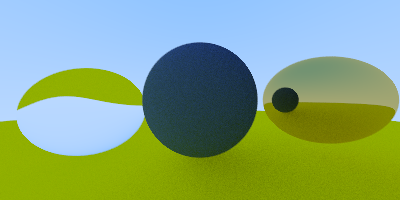
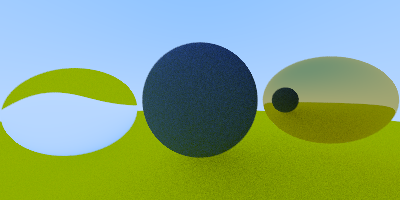
start parallelize render

diff --git a/src/main.rs b/src/main.rs
@@ -5,23 +5,24 @@
 use glam::Vec3;
 use image::{ImageBuffer, Rgb};
 use rand::Rng;
+use rayon::prelude::*;
 use rt_in_1_weekend::{
     color,
     materials::{Lambertian, Reflective, Refractive},
+    parallel::{RNG, WIDTH, WORLD},
     scene::{Camera, Sphere},
     utils, Surface,
 };
-use std::path::Path;
+use std::{cell::Cell, path::Path};
 
-const DIM: u32 = 200;
-const DEPTH: i32 = 10;
+const DEPTH: i32 = 3;
 
 fn world<'a>() -> Vec<Box<dyn Surface>> {
     let mut world: Vec<Box<dyn Surface>> = vec![];
 
     let diffuse1 = Box::new(Lambertian::new(Vec3::new(0.1, 0.2, 0.5)));
     let diffuse2 = Box::new(Lambertian::new(Vec3::new(0.8, 0.8, 0.0)));
-    let reflective1 = Box::new(Reflective::new(Vec3::new(0.8, 0.6, 0.2)));
+    let reflective = Box::new(Reflective::new(Vec3::new(0.8, 0.6, 0.2)));
     let refractive = Box::new(Refractive::new(1.5));
     world.push(Box::new(Sphere::new(
         Vec3::new(0.0, 0.0, -1.0),
@@ -38,12 +39,13 @@ fn world<'a>() -> Vec<Box<dyn Surface>> {
     world.push(Box::new(Sphere::new(
         Vec3::new(-1.1, -0.1, -1.0),
         0.4,
+        // reflective.clone(),
         refractive,
     )));
     world.push(Box::new(Sphere::new(
         Vec3::new(1.1, 0.0, -1.0),
         0.4,
-        reflective1,
+        reflective,
     )));
 
     world
@@ -52,35 +54,36 @@ fn world<'a>() -> Vec<Box<dyn Surface>> {
 fn main() {
     let t = utils::Timer::new();
     // ns is just step count for antialiasing
-    let (w, h, ns) = (DIM as f32 * 2.0, DIM as f32, 100);
-    let mut buf = ImageBuffer::new(w as u32, h as u32);
+    let (w, h, ns) = (WIDTH, HEIGHT, ANTIALIASING);
+    let mut image = Image::new(w as u32, h as u32);
 
-    let world: Vec<Box<dyn Surface>> = world();
+    // let world: Vec<Box<dyn Surface>> = world();
+    WORLD.set(world());
     let camera = Camera::default();
 
-    for (x, y, pixel) in buf.enumerate_pixels_mut() {
-        let mut col = Vec3::ZERO;
-        let (x, y) = (x as f32, y as f32);
+    let mut rng = rand::thread_rng();
+    // for (x, y, pixel) in buf.enumerate_pixels_mut() {
+    //     let mut col = Vec3::ZERO;
+    //     let (x, y) = (x as f32, y as f32);
 
-        for _ in 0..ns {
-            let mut rng = rand::thread_rng();
-            let rand = rng.gen_range(0.0..1.0);
+    //     for _ in 0..ns {
+    //         let rand = rng.gen_range(0.0..1.0);
 
-            // This two are pixel's relative coordinates on the screen
-            let (u, v) = (((x + rand) / w), ((y + rand) / h));
-            let ray = camera.get_ray(u, v);
-            // let p = ray.point_at(2.0);
-            col += color(&ray, &world, DEPTH);
-        }
+    //         // This two are pixel's relative coordinates on the screen
+    //         let (u, v) = (((x + rand) / w), ((y + rand) / h));
+    //         let ray = camera.get_ray(u, v);
+    //         // let p = ray.point_at(2.0);
+    //         col += color(&ray, &world, DEPTH);
+    //     }
 
-        col /= ns as f32;
-        col = Vec3::new(col.x.sqrt(), col.y.sqrt(), col.z.sqrt());
-        *pixel = Rgb([
-            (col[0] * 255.99) as u8,
-            (col[1] * 255.99) as u8,
-            (col[2] * 255.99) as u8,
-        ]);
-    }
+    //     col /= ns as f32;
+    //     col = Vec3::new(col.x.sqrt(), col.y.sqrt(), col.z.sqrt());
+    //     *pixel = Rgb([
+    //         (col[0] * 255.99) as u8,
+    //         (col[1] * 255.99) as u8,
+    //         (col[2] * 255.99) as u8,
+    //     ]);
+    // }
 
     utils::save_image(buf, &Path::new("output/scene.png"));
     t.end();

diff --git a/src/lib.rs b/src/lib.rs
@@ -1,13 +1,21 @@
 pub mod materials;
+pub mod parallel;
 pub mod scene;
 pub mod utils;
 
 use glam::Vec3;
+use image::Rgb;
+use rand::Rng;
+
 use materials::Material;
+use parallel::{HEIGHT, RNG, WIDTH};
+use scene::Camera;
+
+const ANTIALIASING: i32 = 50;
 
 /// For ray calculate color in the given world - list of objects with coordinates
 pub fn color(ray: &Ray, world: &Vec<Box<dyn Surface>>, depth: i32) -> Vec3 {
-    if let Some(hit) = world.hit(ray, 0.0001, f32::MAX) {
+    if let Some(hit) = world.hit(ray, 0.001, f32::MAX) {
         if let Some((attenuation, scattered)) = hit.material.scatter(ray, &hit) {
             let col: Vec3 = color(&scattered, world, depth + 1);
             return attenuation * col;
@@ -17,6 +25,42 @@ pub fn color(ray: &Ray, world: &Vec<Box<dyn Surface>>, depth: i32) -> Vec3 {
     let norm = ray.direction().unit_vec();
     let t = 0.5 * norm.y + 1.0;
     (1.0 - t) * Vec3::ONE + t * Vec3::new(0.5, 0.7, 1.0)
+}
+
+pub fn pixel_color(x: f32, y: f32, camera: &Camera, world: &Vec<dyn Surface>) -> Rgb<u8> {
+    for _ in 0..ANTIALIASING {
+        let rand = RNG.get_mut().gen_range(0.0..1.0);
+
+        // This two are pixel's relative coordinates on the screen
+        let (u, v) = (((x + rand) / WIDTH), ((y + rand) / HEIGHT));
+        let ray = camera.get_ray(u, v);
+        // let p = ray.point_at(2.0);
+        col += color(&ray, &world, DEPTH);
+    }
+
+    col /= ns as f32;
+    col = Vec3::new(col.x.sqrt(), col.y.sqrt(), col.z.sqrt());
+    Rgb([
+        (col[0] * 255.99) as u8,
+        (col[1] * 255.99) as u8,
+        (col[2] * 255.99) as u8,
+    ])
+}
+
+pub fn set_pixel(x: f32, y: f32, pixel: &mut Rgb<u8>) {
+    let mut col = Vec3::ZERO;
+    let pool = rayon::ThreadPoolBuilder::new().build().unwrap();
+    // let chunks =
+    let mut v1 = RawImageView::new(&mut buf, 0, 0, 10, 10);
+    let mut v2 = RawImageView::new(&mut buf, 10, 0, 10, 10);
+    pool.scope(|s| {
+        s.spawn(|_| {
+            modify(&mut v1);
+        });
+        s.spawn(|_| {
+            modify(&mut v2);
+        });
+    });
 }
 
 pub trait Vec3Ext<T> {

diff --git a/src/utils.rs b/src/utils.rs
@@ -54,11 +54,8 @@ impl Image {
         &mut self.0
     }
 
-    pub fn assign_pixel(&mut self, x: i32, y: i32, intensity: f32) {
+    pub fn assign_pixel(&mut self, x: i32, y: i32, value: Rgb<u8>) {
         let pixel = self.buf_mut().get_pixel_mut(x as u32, y as u32);
-        // Reverse to make black default value
-        // TODO: support different colors
-        let value = (255.0 - intensity * 255.0) as u8;
-        *pixel = Rgb([value; 3]);
+        *pixel = value;
     }
 }

diff --git a/src/parallel.rs b/src/parallel.rs
@@ -1,0 +1,12 @@
+use crate::{scene::Scene, Surface};
+use lazy_static::lazy_static;
+use rand::{rngs::ThreadRng, thread_rng};
+use rayon::prelude::*;
+use std::cell::Cell;
+
+pub const DIM: f32 = 200.0;
+
+pub const WORLD: Cell<Vec<Box<dyn Surface>>> = Cell::new(vec![]);
+pub const RNG: Cell<ThreadRng> = Cell::new(thread_rng());
+pub const HEIGHT: f32 = DIM;
+pub const WIDTH: f32 = DIM * 2.0;

diff --git a/src/scene.rs b/src/scene.rs
@@ -1,6 +1,13 @@
 use crate::{materials::Material, Hit, Ray, Surface};
 use glam::Vec3;
 
+pub struct Scene {
+    pub width: u32,
+    pub height: u32,
+    pub world: Vec<Box<dyn Surface>>,
+    pub camera: Camera,
+}
+
 pub struct Sphere {
     center: Vec3,
     radius: f32,
